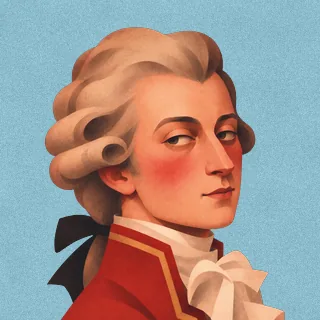
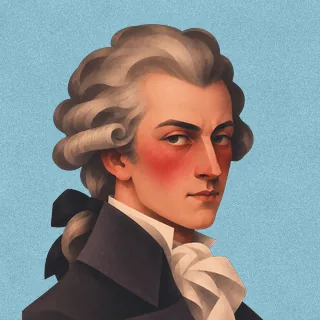
Mozart: the new portrait from mozart.fig
Claude-Session: https://claude.ai/code/session_01J9nR1BmP9TjDnKqecdbpyd

diff --git a/scripts/art/composers2.py b/scripts/art/composers2.py
@@ -65,11 +65,14 @@ def render(fig, frame, nodes, W, H):
 os.makedirs(OUT, exist_ok=True)
 done = {}
 k = 0
-for f in ['composers_1_1', 'composers_2', 'composers_3']:
+# the later files win over the earlier ones; mozart.fig's frames kept the name of the page they were copied from
+FILES = [('composers_1_1', None), ('composers_2', None), ('composers_3', None), ('mozart_new', 'Mozart')]
+for f, rename in FILES:
     fig = f'{FIGS}/{f}'
+    if not os.path.exists(f'{fig}/nodes.json'): continue
     nodes = json.load(open(f'{fig}/nodes.json'))
     for fr in [x for x in nodes if x['type'] == 'FRAME' and x.get('size')]:
-        name = fr['name'].replace('', '').strip()
+        name = rename or fr['name'].replace('', '').strip()
         if name not in NAMES: continue
         cid, short = NAMES[name]
         if cid not in COLS:
